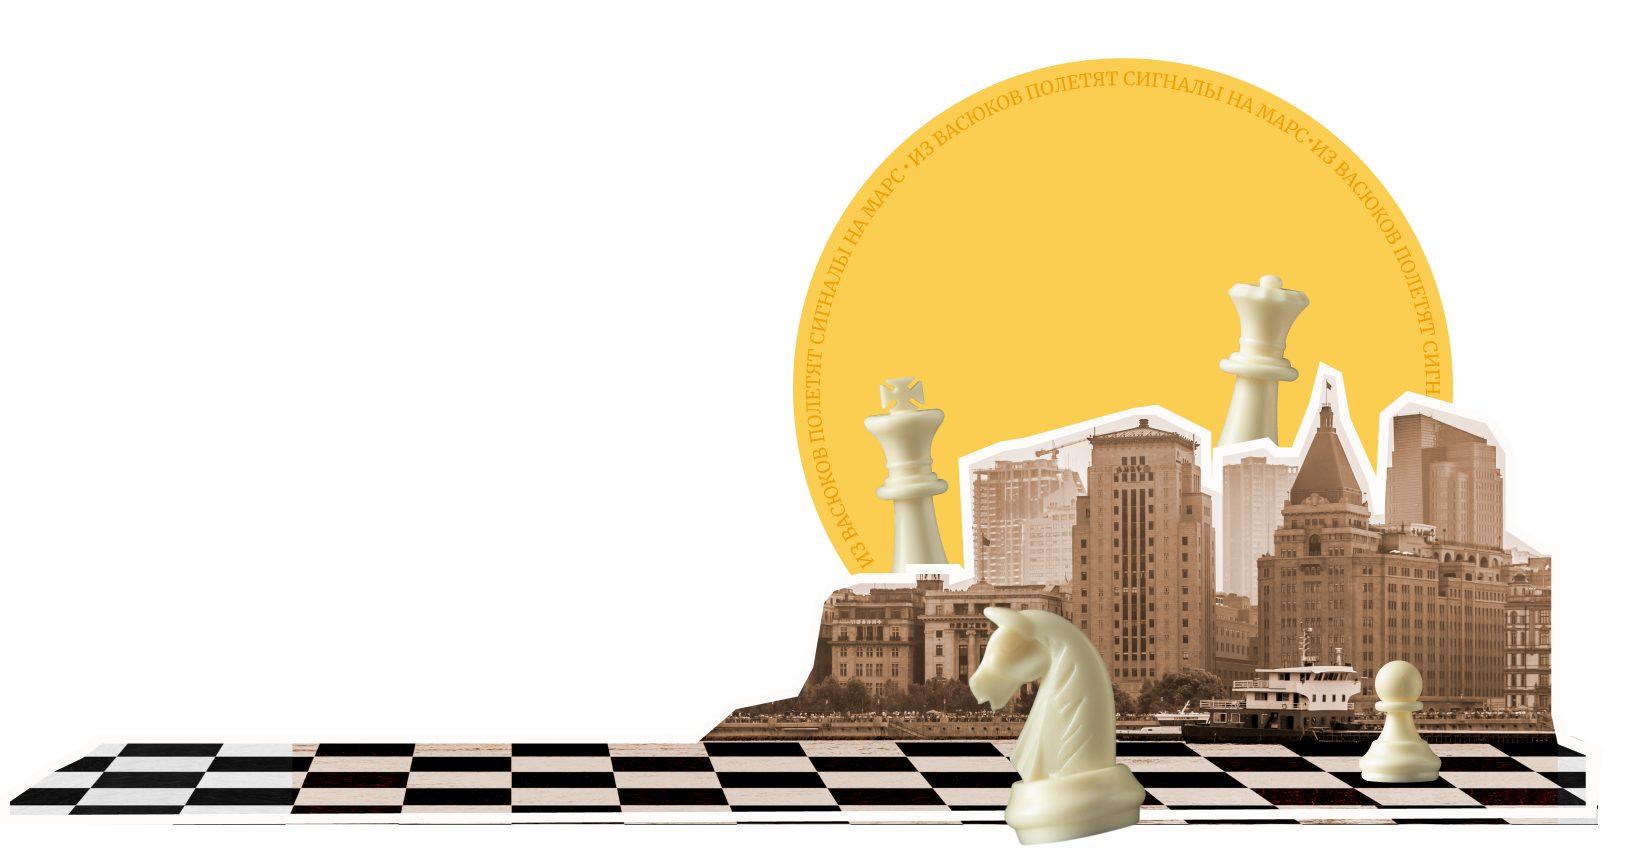
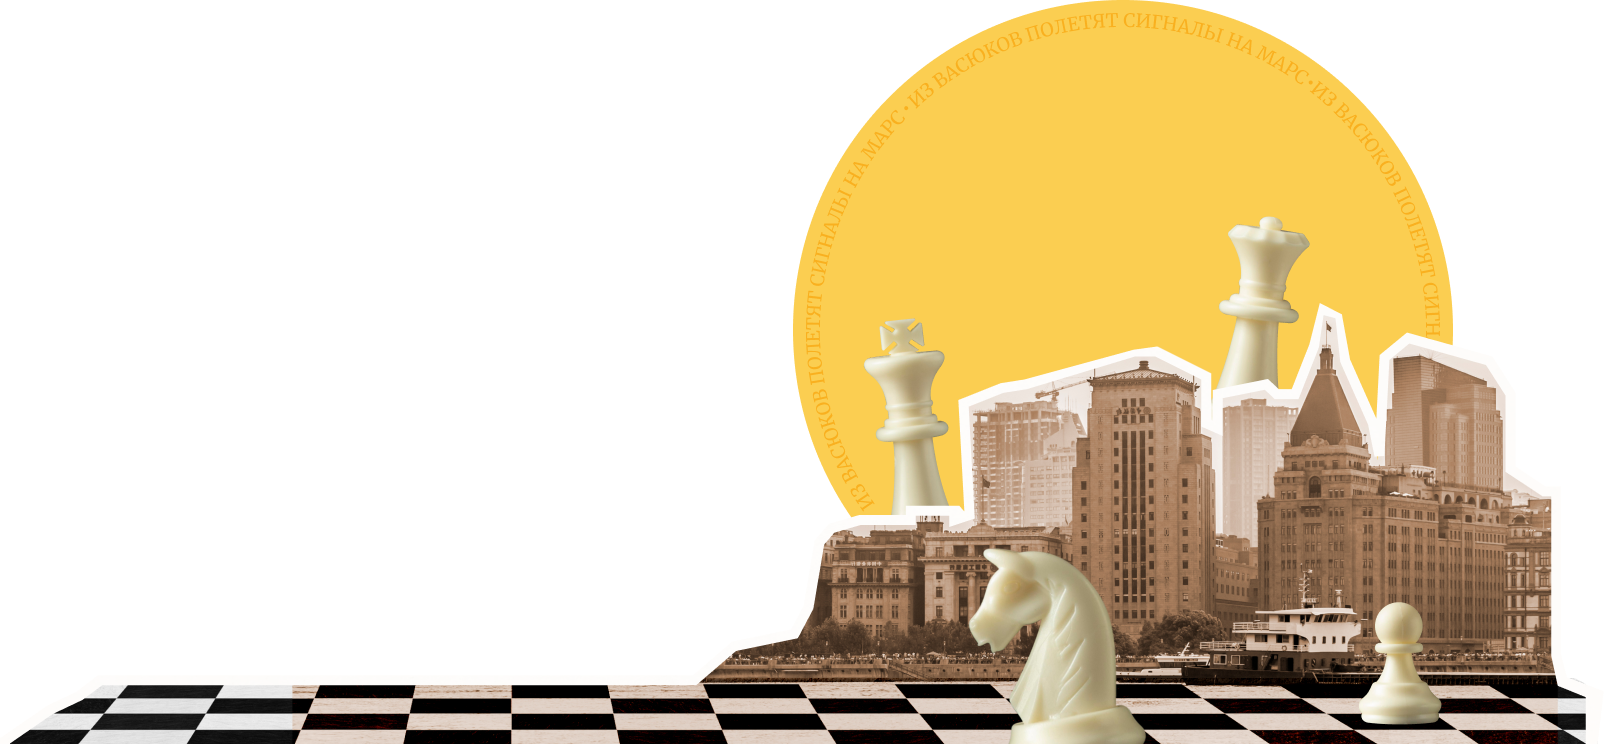
Hero desktop pixel perfect

Changed region(s): [[0.0, 0.0, 0.9975, 1.0]]

diff --git a/src/styles/blocks/hero.scss b/src/styles/blocks/hero.scss
@@ -6,10 +6,10 @@
   background-color: $yellow-brown;
   background-image:
     url('@images/hero/bg.png'),
-    url('@images/hero/city-without-chess.png');
+    url('@images/hero/city.png');
   background-size:
     auto,
-    1600px auto;
+    1604px auto;
   background-blend-mode:
     color-burn,
     normal;
@@ -78,9 +78,9 @@
     z-index: 2;
     flex: 0 1 35rem;
     
-    padding-top: clamp(3rem, 5vw, 4rem);
+    padding-top: clamp(3rem, 5vw, 62px);
     @media (min-width: calc($mobile + 1px)) {
-      padding-bottom: 10rem;
+      padding-bottom: 130px;
     }
     @media (max-width: $mobile) {
       padding-bottom: 65vw;
@@ -91,11 +91,19 @@
   }
 
   &__title {
-    font-size: 0;
+    font-size: clamp(2.25rem, 10vw, 3.75rem);
     font-weight: 400;
     line-height: 1.1;
+    &-hidden {
+      font-size: 0;
+    }
+
+    display: flex;
+    flex-direction: column;
+
     &::before, &::after {
       display: inline-block;
+      text-align: center;
       @media (min-width: calc($mobile_small + 1px)) {
         font-size: clamp(2.25rem, 10vw, 3.75rem);
       }
@@ -104,20 +112,27 @@
       }
     }
     &::before {
-      content: attr(data-left);
-      text-align: left;
+      content: attr(data-center-first);
+      order: 2;
+      margin-left: -1.2rem;
     }
     &::after {
-      content: attr(data-center);
-      text-align: center;
+      content: attr(data-center-second);
+      order: 3;
+      margin-left: 1rem;
     }
   }
 
   &__paragraph {
-    font-size: 1.125rem;
+    font-size: 18px;
+    font-weight: 400;
+    line-height: 1.3;
     text-align: center;
-    margin-top: 20px;
-    margin-bottom: 40px;
+    margin-top: 24px;
+    @media (min-width: calc($mobile + 1px)) {
+      margin-bottom: 39px;
+      margin-left: -18px;
+    }
     @media (max-width: $mobile) {
       text-align: left;
       margin-bottom: 24px;
@@ -128,6 +143,7 @@
     display: flex;
     flex-wrap: wrap;
     gap: 1rem;
+    margin-right: 18px;
   }
   &__button {
     flex: 1 1 12rem;

diff --git a/src/index.html b/src/index.html
@@ -26,9 +26,9 @@
       </div>
       <div class="hero__content">
         <h1 class="hero__title title"
-          data-left="Превратите уездный город"
-          data-center="в столицу земного шара">
-          Превратите уездный город в столицу земного шара
+          data-center-first="в столицу"
+          data-center-second="земного шара">
+          Превратите уездный город<span class="hero__title-hidden"> в столицу земного шара</span>
         </h1>
         <p class="hero__paragraph">
           Оплатите взнос на телеграммы для организации Международного васюкинского турнира по шахматам

diff --git a/src/styles/blocks/common/button.scss b/src/styles/blocks/common/button.scss
@@ -10,6 +10,8 @@
   }
   &_size {
     &_large {
+      font-size: 16px;
+      line-height: 1.3;
       padding: 1rem;
       border-radius: 10rem;
       display: flex;
@@ -36,7 +38,7 @@
       }
       @media (min-width: calc($container-width + 1px)) {
         background-color: transparent;
-        border: 2px solid $black;
+        box-shadow: 0 0 0 2px $black inset;
       }
       @media (max-width: $container-width) {
         background-color: rgba($white, 0.9);
